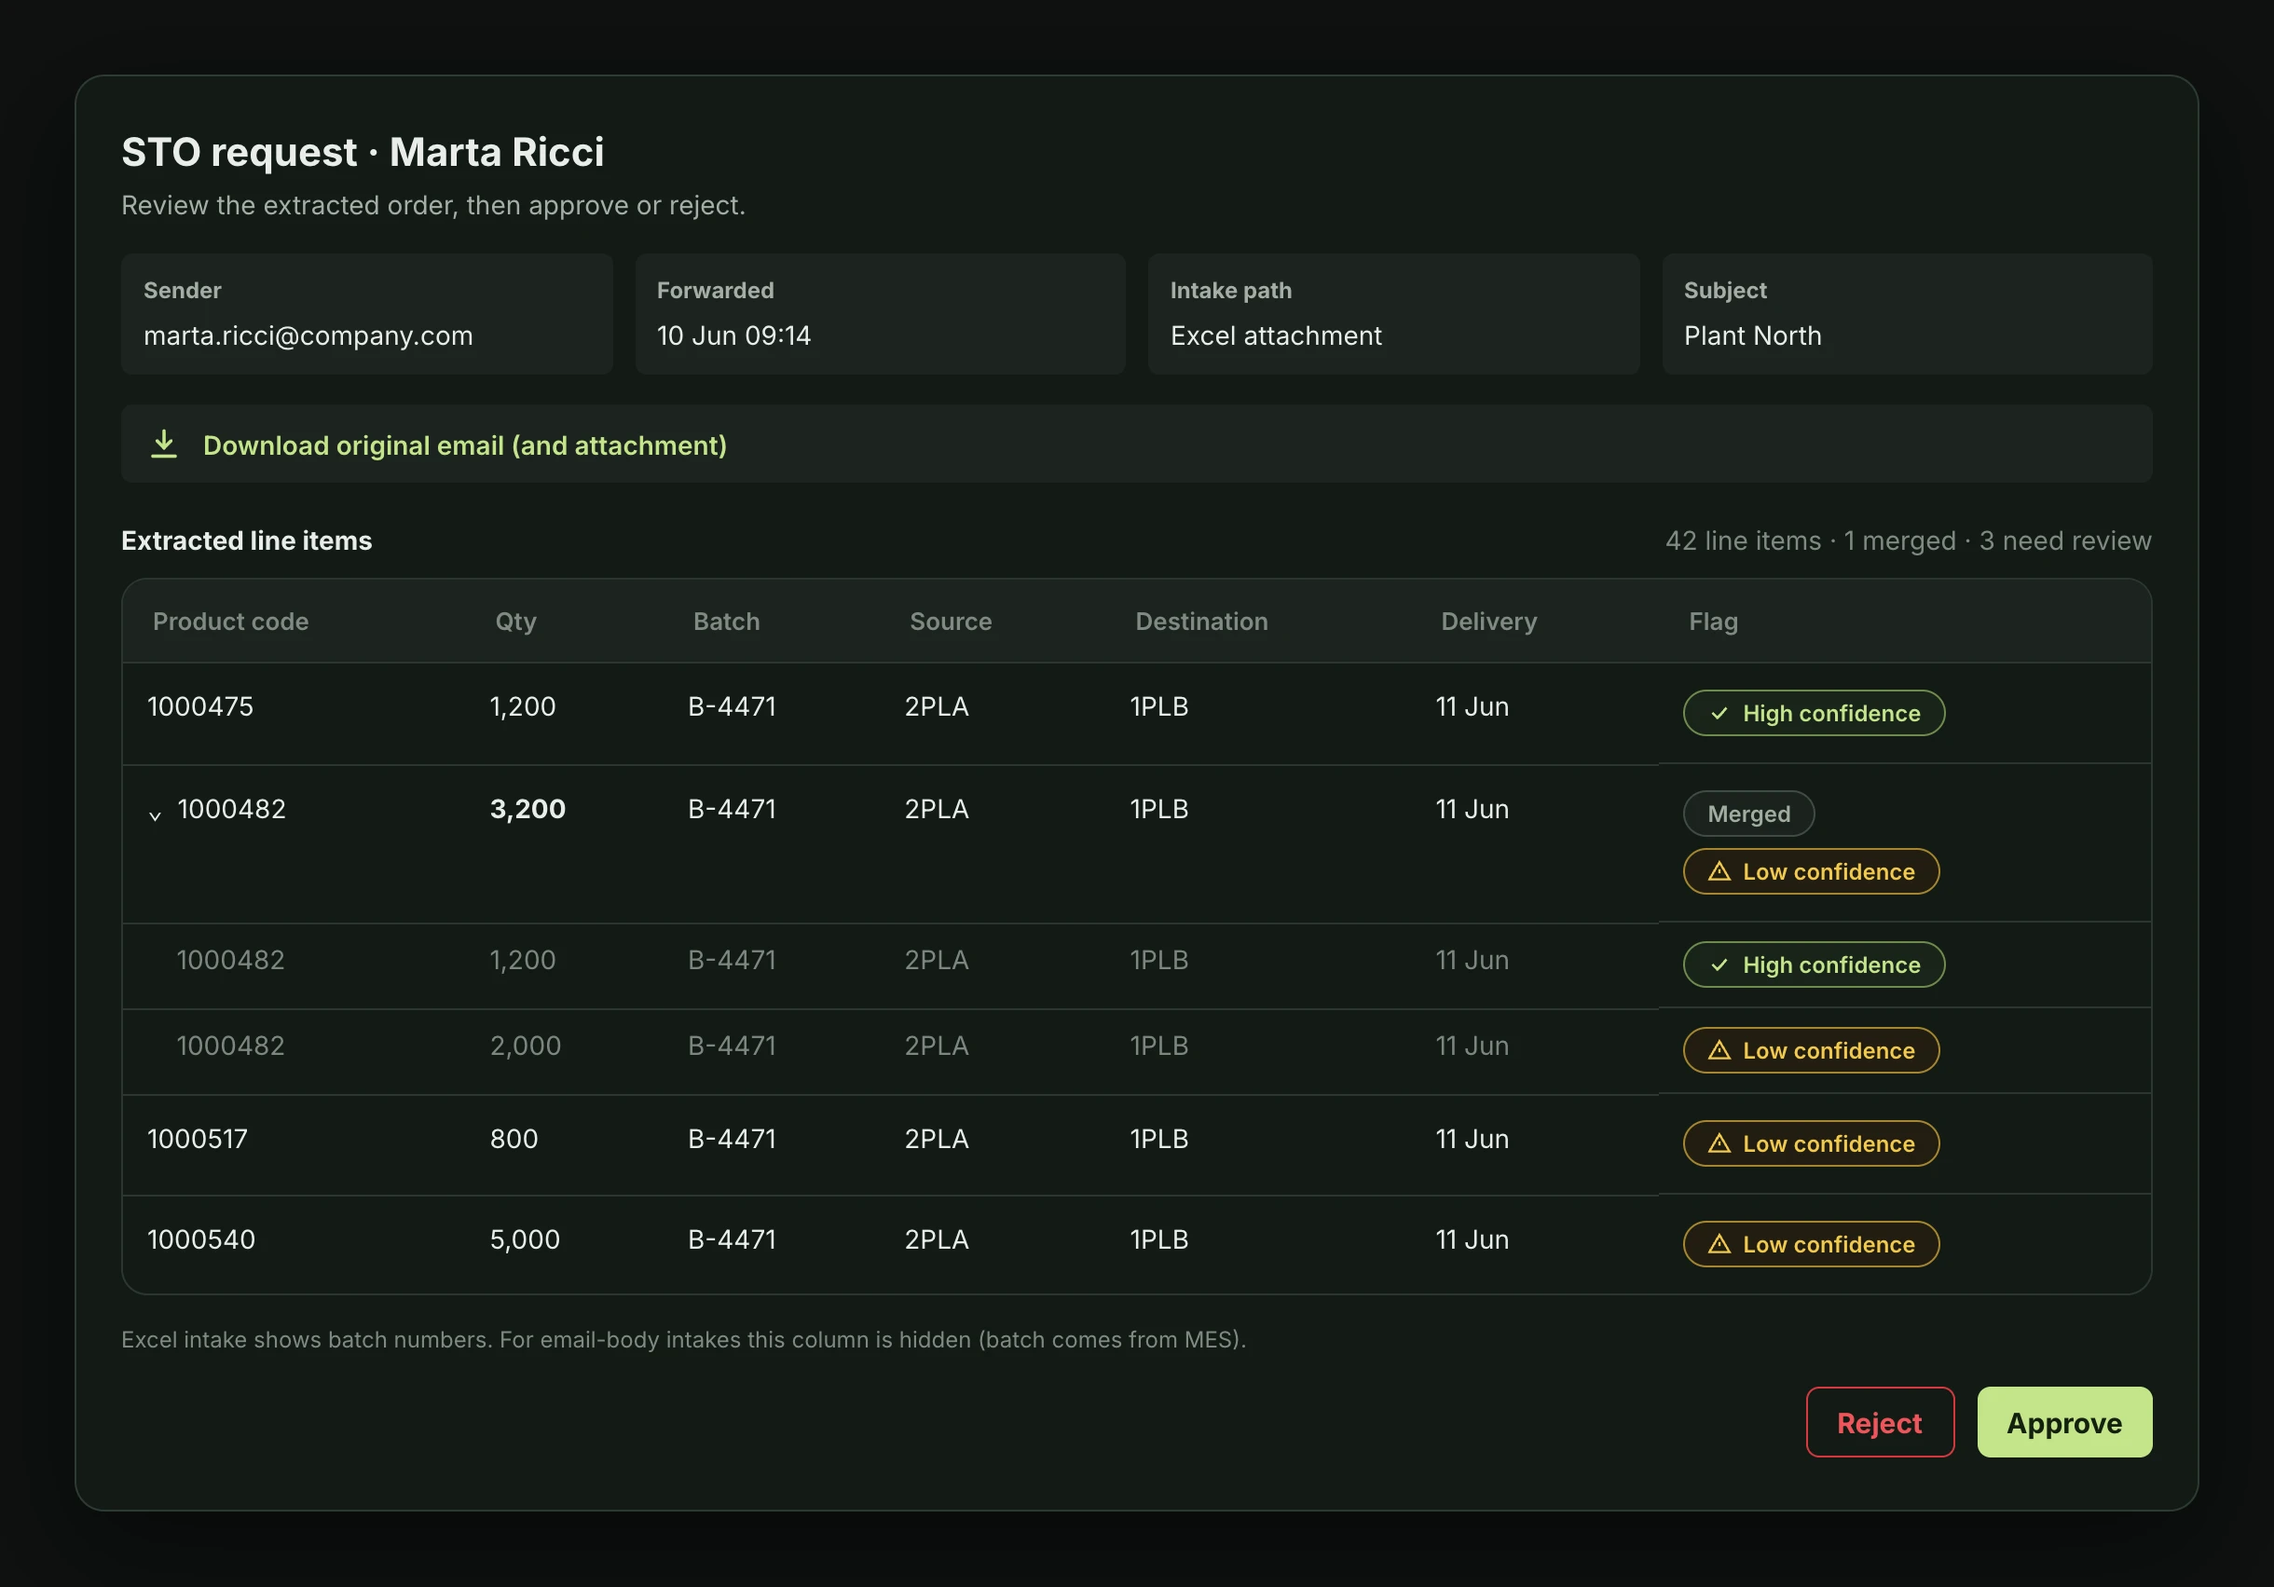
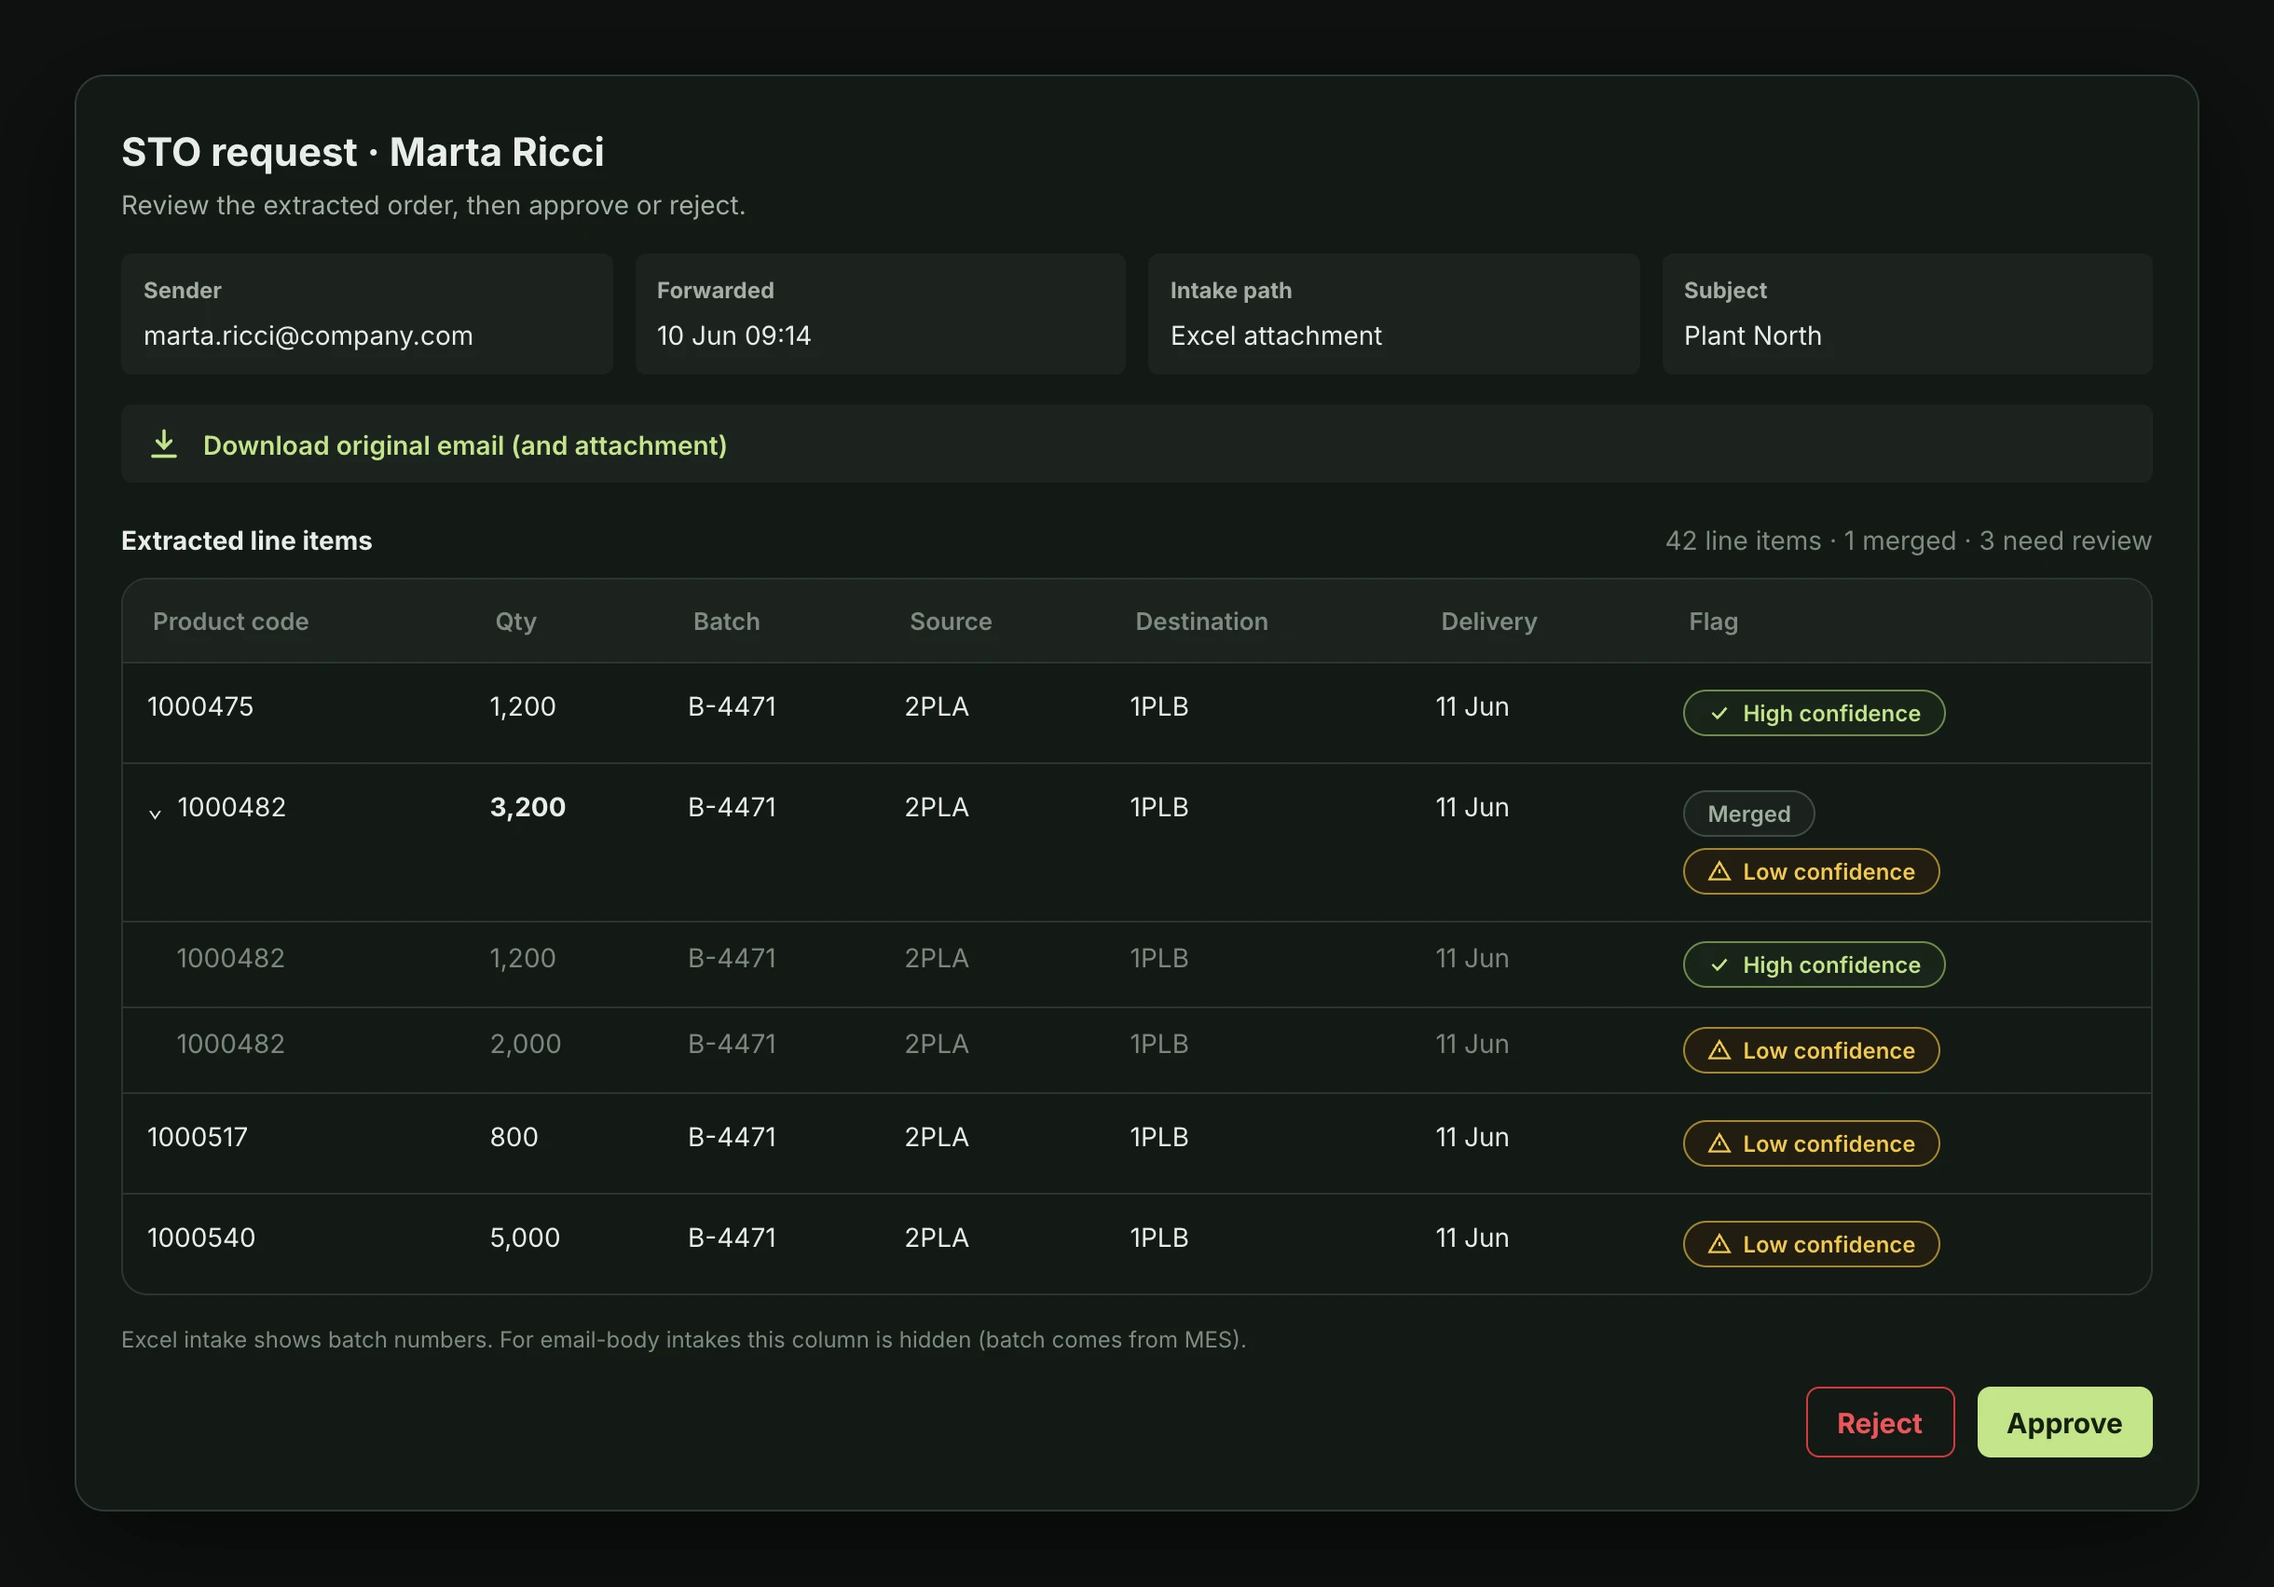
Homepage: the STO card is a close crop of the review on a steel bench
Asset swap. img/sto/card-bench.webp (1812x1020, same box) replaces
card-tablet.webp: the tablet's top-right corner on a grey powder-coated
workbench drawn in ChatGPT, bleeding off the left and bottom, with the
review screen at about 2.4x so the Flag column and the merged row read.

img/sto/review.webp is retaken with the Flag cells' row lines meeting the
rest of each row: the cell had been display:flex, which took it out of the
table, so its border sat a few pixels off. Same 2440x1703; ?v=2 on its src.

resting.mjs and states.mjs on index.html (1504, 472) and on the case study
(88, 73) pass at the same counts before and after.

diff --git a/index.html b/index.html
@@ -1042,7 +1042,7 @@
 
           <a class="case-card reveal" href="case-study/agentic-sto-approval.html" aria-label="View case study: Where a person checks an agent before it reaches SAP">
             <div class="case-thumb">
-              <img decoding="async" loading="lazy" src="img/sto/card-tablet.webp" alt="An order an AI agent extracted from email, open for review in dark mode, with a confidence flag on every line." width="1812" height="1020"/>
+              <img decoding="async" loading="lazy" src="img/sto/card-bench.webp" alt="An order an AI agent extracted from email, open for review in dark mode, with a confidence flag on every line." width="1812" height="1020"/>
             </div>
             <h3>Where a person checks an agent before it reaches SAP</h3>
             <p class="case-desc">A review screen for AI-extracted orders, designed around what one failed SAP attempt costs.</p>

diff --git a/case-study/agentic-sto-approval.html b/case-study/agentic-sto-approval.html
@@ -242,7 +242,7 @@
         </div>
 
         <figure class="build-shot">
-          <img src="../img/sto/review.webp" width="2440" height="1703" fetchpriority="high" decoding="async"
+          <img src="../img/sto/review.webp?v=2" width="2440" height="1703" fetchpriority="high" decoding="async"
                alt="An extracted order open for review: sender, time, intake path, and subject across the top, a link to download the original email, and six line items, each with a High confidence, Low confidence, or Merged flag. Reject and Approve sit at the foot." />
           <figcaption>Everything the agent pulled from the email, a flag on every line, and the original one click away.</figcaption>
         </figure>
